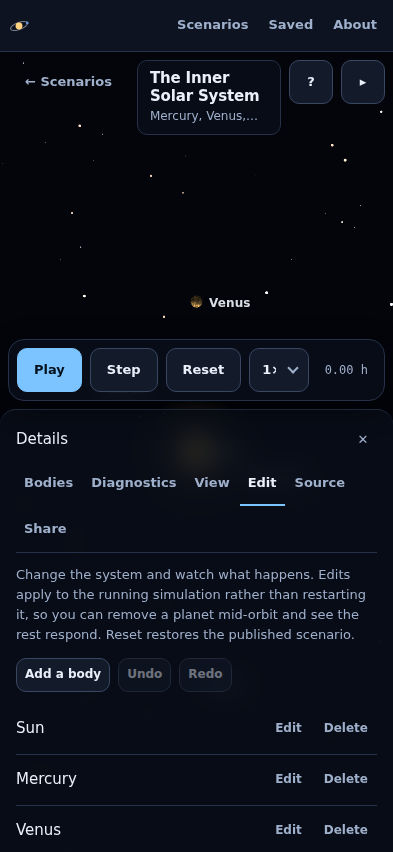
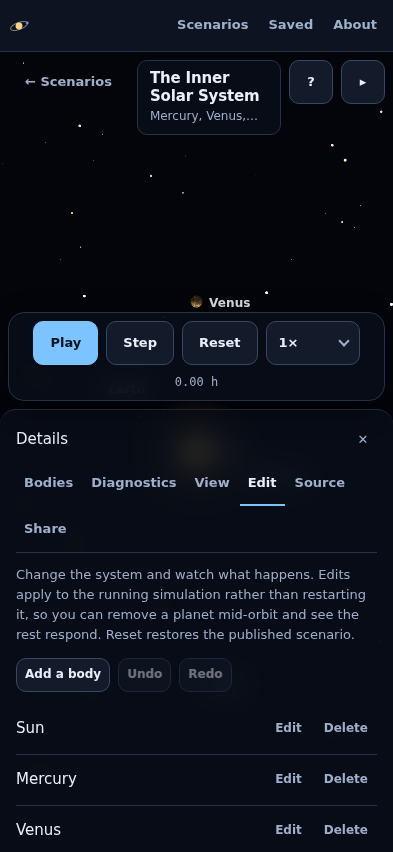
M5: stop clipping the things the panel was meant to show
Two defects visible in the milestone screenshots and in nothing else.

The body table's z column was cut off at the panel's right edge. The panel is
392px wide at every viewport and five numeric columns do not fit. For most of
the catalogue that clipped column was a column of ZEROS — the scenarios are
coplanar by construction — so it cost the information in x and y to show
nothing. z now appears only when something is genuinely out of the plane, and
when it is absent the table says every body is in the z = 0 plane rather than
leaving the omission unexplained. The real ephemerides from Horizons are not
coplanar and still show it.

On a phone the transport bar was about 40px too wide and the speed select was
what gave way, reading "1)" with the rest cut off. It wraps now; the clock
takes the second line.

Also extracts the e2e openTab helper, which existed twice and raced. It
sampled tab.isVisible() once and, when false, clicked "Show details panel" —
under a loaded suite that sample landed before either existed, and the test
then burned its whole timeout waiting for a button that was never coming
because the panel was already open. It now waits for one of the two first.
That is the failure the new z-column test hit on its first full run.

npm run verify: 286 unit tests, 58 e2e, all green.

Claude-Session: https://claude.ai/code/session_019T6cKLdFhUbSDbrApaF8xe

Changed region(s): [[0.0305, 0.3662, 0.916, 0.4577]]

diff --git a/tests/e2e/simulator.spec.ts b/tests/e2e/simulator.spec.ts
@@ -1,22 +1,6 @@
-import { test, expect, type Page } from "@playwright/test";
+import { test, expect } from "@playwright/test";
+import { openTab } from "./helpers";
 import { readFile } from "node:fs/promises";
-
-/**
- * Open a panel tab. The simulator now presents its controls in an overlay
- * panel rather than inline, so tests must open the relevant tab first. The
- * panel is open by default at desktop width.
- */
-async function openTab(page: Page, name: string) {
-  const tab = page.getByRole("tab", { name });
-  if (!(await tab.isVisible())) {
-    await page.getByRole("button", { name: /Show details panel/ }).click();
-  }
-  // Wait for the tab rather than clicking whatever is there: the panel can be
-  // mid-transition, and under a loaded suite that raced and timed out.
-  await expect(tab).toBeVisible();
-  await tab.click();
-  await expect(tab).toHaveAttribute("aria-selected", "true");
-}
 
 test.beforeEach(async ({ page }) => {
   await page.goto("/#/scenario/sun-and-earth");
@@ -276,5 +260,24 @@ test.describe("simulator", () => {
     await expect(
       page.getByRole("img", { name: /Relative angular momentum error over time/ }),
     ).toBeVisible();
+  });
+
+  test("shows the z column only when something is out of the plane", async ({
+    page,
+  }) => {
+    // The panel is 392px wide at every viewport and five numeric columns do
+    // not fit, so a column of zeros used to cost the information in x and y.
+    await openTab(page, "Bodies");
+    await expect(page.getByRole("columnheader", { name: "z" })).toHaveCount(0);
+    await expect(page.getByText(/Every body is in the z = 0 plane/)).toBeVisible();
+
+    // The real ephemerides are not coplanar, and there it appears.
+    await page.goto("/#/scenario/solar-system-epoch");
+    // Wait for the simulator itself, not just the heading: the heading renders
+    // before the panel exists, and openTab then raced it.
+    await expect(page.getByRole("button", { name: "Play" })).toBeVisible();
+    await openTab(page, "Bodies");
+    await expect(page.getByRole("columnheader", { name: "z" })).toBeVisible();
+    await expect(page.getByText(/Every body is in the z = 0 plane/)).toHaveCount(0);
   });
 });

diff --git a/src/ui/SimulatorPage.tsx b/src/ui/SimulatorPage.tsx
@@ -636,6 +636,18 @@ export function SimulatorPage({ scenario, onBack }: SimulatorPageProps) {
   );
   const positions = positionsRef.current;
 
+  /*
+   * Show the z column only when something is actually out of the plane.
+   *
+   * The panel is 392px wide at every viewport, and five numeric columns do not
+   * fit: z was clipped at the right edge. Most catalogue scenarios are
+   * coplanar by construction, so that clipped column was a column of zeros —
+   * it cost the information in x and y to show nothing. The real ephemerides
+   * from Horizons are not coplanar, and there it appears.
+   */
+  const hasOutOfPlane =
+    positions !== null && bodies.some((_, index) => positions[index * 3 + 2] !== 0);
+
   const timestepWarning = useMemo(() => {
     if (!hud) return null;
     if (hud.energyDrift > DRIFT_BAD) {
@@ -658,6 +670,7 @@ export function SimulatorPage({ scenario, onBack }: SimulatorPageProps) {
     <>
       <p className="source-note">
         A live, readable equivalent of the 3D view. Positions are in astronomical units.
+        {hasOutOfPlane ? "" : " Every body is in the z = 0 plane."}
       </p>
       <table className="diagnostics">
         <caption className="visually-hidden">
@@ -669,7 +682,7 @@ export function SimulatorPage({ scenario, onBack }: SimulatorPageProps) {
             <th scope="col">Mass (M☉)</th>
             <th scope="col">x</th>
             <th scope="col">y</th>
-            <th scope="col">z</th>
+            {hasOutOfPlane && <th scope="col">z</th>}
           </tr>
         </thead>
         <tbody>
@@ -701,9 +714,11 @@ export function SimulatorPage({ scenario, onBack }: SimulatorPageProps) {
               <td className="value">
                 {positions ? formatScientific(positions[index * 3 + 1]) : "—"}
               </td>
-              <td className="value">
-                {positions ? formatScientific(positions[index * 3 + 2]) : "—"}
-              </td>
+              {hasOutOfPlane && (
+                <td className="value">
+                  {positions ? formatScientific(positions[index * 3 + 2]) : "—"}
+                </td>
+              )}
             </tr>
           ))}
         </tbody>

diff --git a/tests/e2e/helpers.ts b/tests/e2e/helpers.ts
@@ -1,0 +1,26 @@
+import { expect, type Page } from "@playwright/test";
+
+/**
+ * Open a panel tab.
+ *
+ * The simulator presents its controls in an overlay panel, which is open by
+ * default at desktop width and collapsed to a bottom sheet on a phone, so a
+ * test has to open the right tab first.
+ *
+ * The wait matters. An earlier version sampled `tab.isVisible()` once and, if
+ * false, clicked "Show details panel". Under a loaded suite that sample landed
+ * BEFORE either existed, and the test then spent its whole timeout waiting for
+ * a button that was never going to appear because the panel was already open.
+ * Waiting for one of the two first removes the race.
+ */
+export async function openTab(page: Page, name: string): Promise<void> {
+  const tab = page.getByRole("tab", { name });
+  const show = page.getByRole("button", { name: /Show details panel/ });
+  await expect(tab.or(show).first()).toBeVisible();
+  if (!(await tab.isVisible())) await show.click();
+  await expect(tab).toBeVisible();
+  await tab.click();
+  // Assert the click landed: the panel can be mid-transition, and clicking
+  // whatever is under the cursor is how this raced in the first place.
+  await expect(tab).toHaveAttribute("aria-selected", "true");
+}

diff --git a/tests/e2e/editor.spec.ts b/tests/e2e/editor.spec.ts
@@ -1,4 +1,5 @@
-import { test, expect, type Page } from "@playwright/test";
+import { test, expect } from "@playwright/test";
+import { openTab } from "./helpers";
 
 /**
  * Editing a running simulation.
@@ -7,15 +8,6 @@ import { test, expect, type Page } from "@playwright/test";
  * is where the interesting failures are. The pure history bookkeeping is
  * covered in tests/ui/edit-history.test.ts.
  */
-async function openTab(page: Page, name: string) {
-  const tab = page.getByRole("tab", { name });
-  if (!(await tab.isVisible())) {
-    await page.getByRole("button", { name: /Show details panel/ }).click();
-  }
-  await expect(tab).toBeVisible();
-  await tab.click();
-  await expect(tab).toHaveAttribute("aria-selected", "true");
-}
 
 test.beforeEach(async ({ page }) => {
   await page.goto("/#/scenario/inner-solar-system");

diff --git a/src/ui/styles.css b/src/ui/styles.css
@@ -853,6 +853,16 @@ textarea {
     max-width: none;
     justify-content: center;
     bottom: calc(var(--s-2) + env(safe-area-inset-bottom, 0px));
+    /*
+     * Wrap rather than scroll. At 393px the row is about 40px too wide, and
+     * the speed select was the thing that gave way — it read "1)" with the
+     * rest of the label cut off. The clock moves to a second line instead.
+     */
+    flex-wrap: wrap;
+    overflow-x: visible;
+  }
+  .sim__transport .select {
+    flex: 0 0 auto;
   }
   /* Sit exactly on top of the sheet when it is open. */
   .sim[data-panel="open"] .sim__transport {
